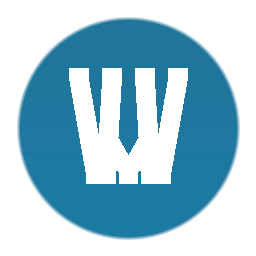
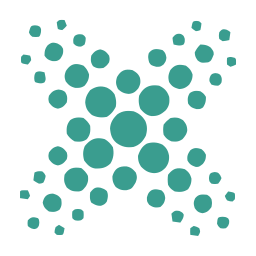
Release desktop MCPB 1.0.4

diff --git a/mcp-server/src/index.ts b/mcp-server/src/index.ts
@@ -86,7 +86,7 @@ async function main(): Promise<void> {
 
   const server = new McpServer({
     name: 'axtolab-ai-connector',
-    version: '1.0.3',
+    version: '1.0.4',
     description:
       'Axtolab AI Connector — proxies Claude tool calls to a WordPress site via the Axtolab AI Connector plugin.' +
       siteIndicator +

diff --git a/README.md b/README.md
@@ -18,7 +18,7 @@
 
 | File | What it's for | Size | Direct download |
 |---|---|---|---|
-| 🔌 **`axtolab-ai-connector-1.0.3.zip`** | WordPress plugin — upload via WordPress Admin → Plugins → Add New → Upload Plugin | 201 KB | **[Download ZIP →](https://github.com/Axtolab/axtolab-ai-connector-for-wordpress-free/releases/latest/download/axtolab-ai-connector-1.0.3.zip)** |
+| 🔌 **`axtolab-ai-connector-1.0.3.zip`** | WordPress plugin — upload via WordPress Admin → Plugins → Add New → Upload Plugin | 201 KB | **[Download ZIP →](https://github.com/Axtolab/axtolab-ai-connector-for-wordpress-free/releases/download/v1.0.3/axtolab-ai-connector-1.0.3.zip)** |
 | 🖥️ **`axtolab-ai-connector.mcpb`** | Claude Desktop installer — double-click after the plugin is set up | 1.4 MB | **[Download .mcpb →](https://github.com/Axtolab/axtolab-ai-connector-for-wordpress-free/releases/latest/download/axtolab-ai-connector.mcpb)** |
 
 → See the [Releases page](https://github.com/Axtolab/axtolab-ai-connector-for-wordpress-free/releases) for full changelogs and SHA-256 checksums.